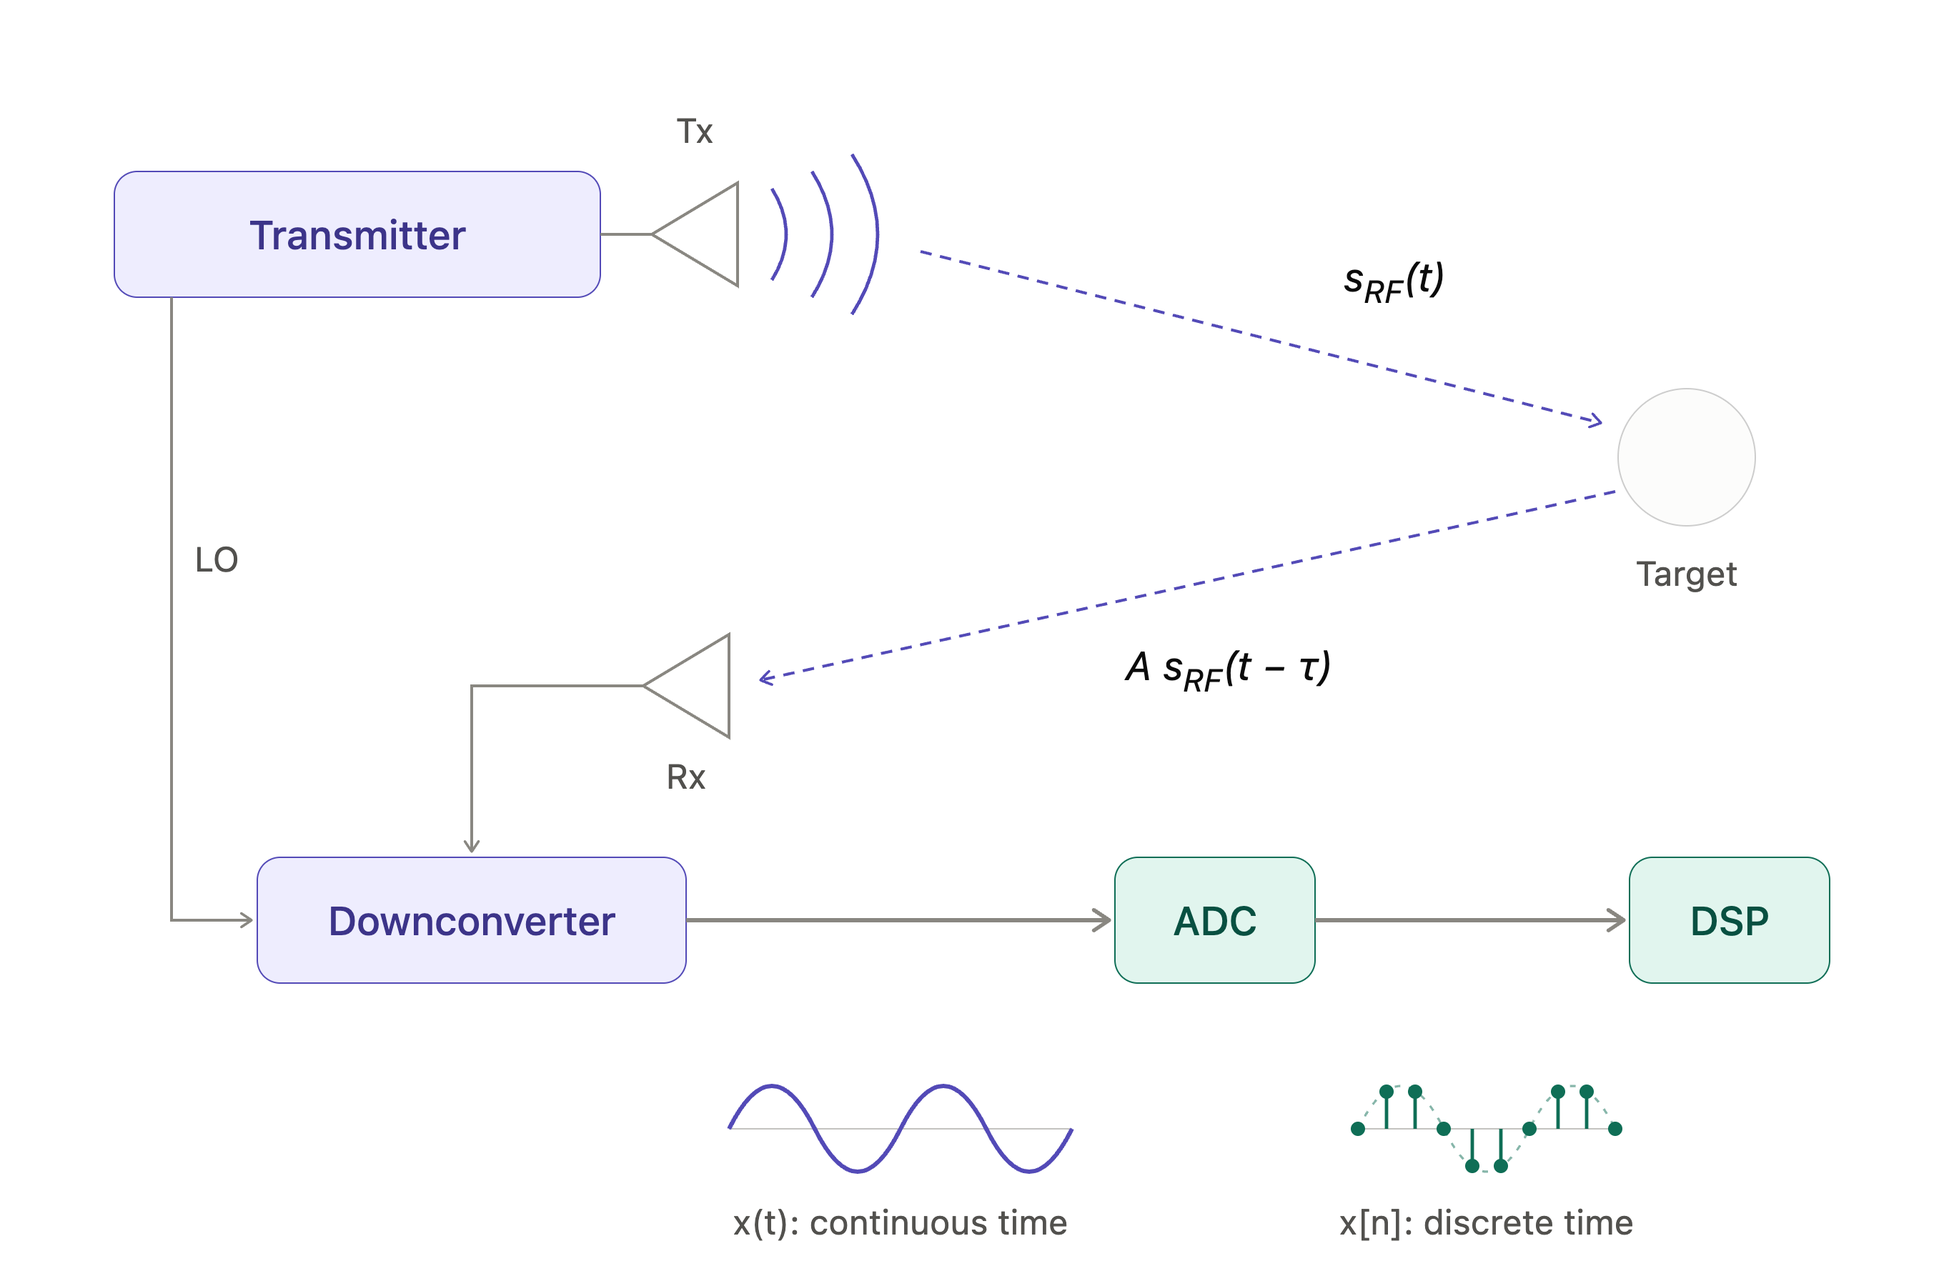
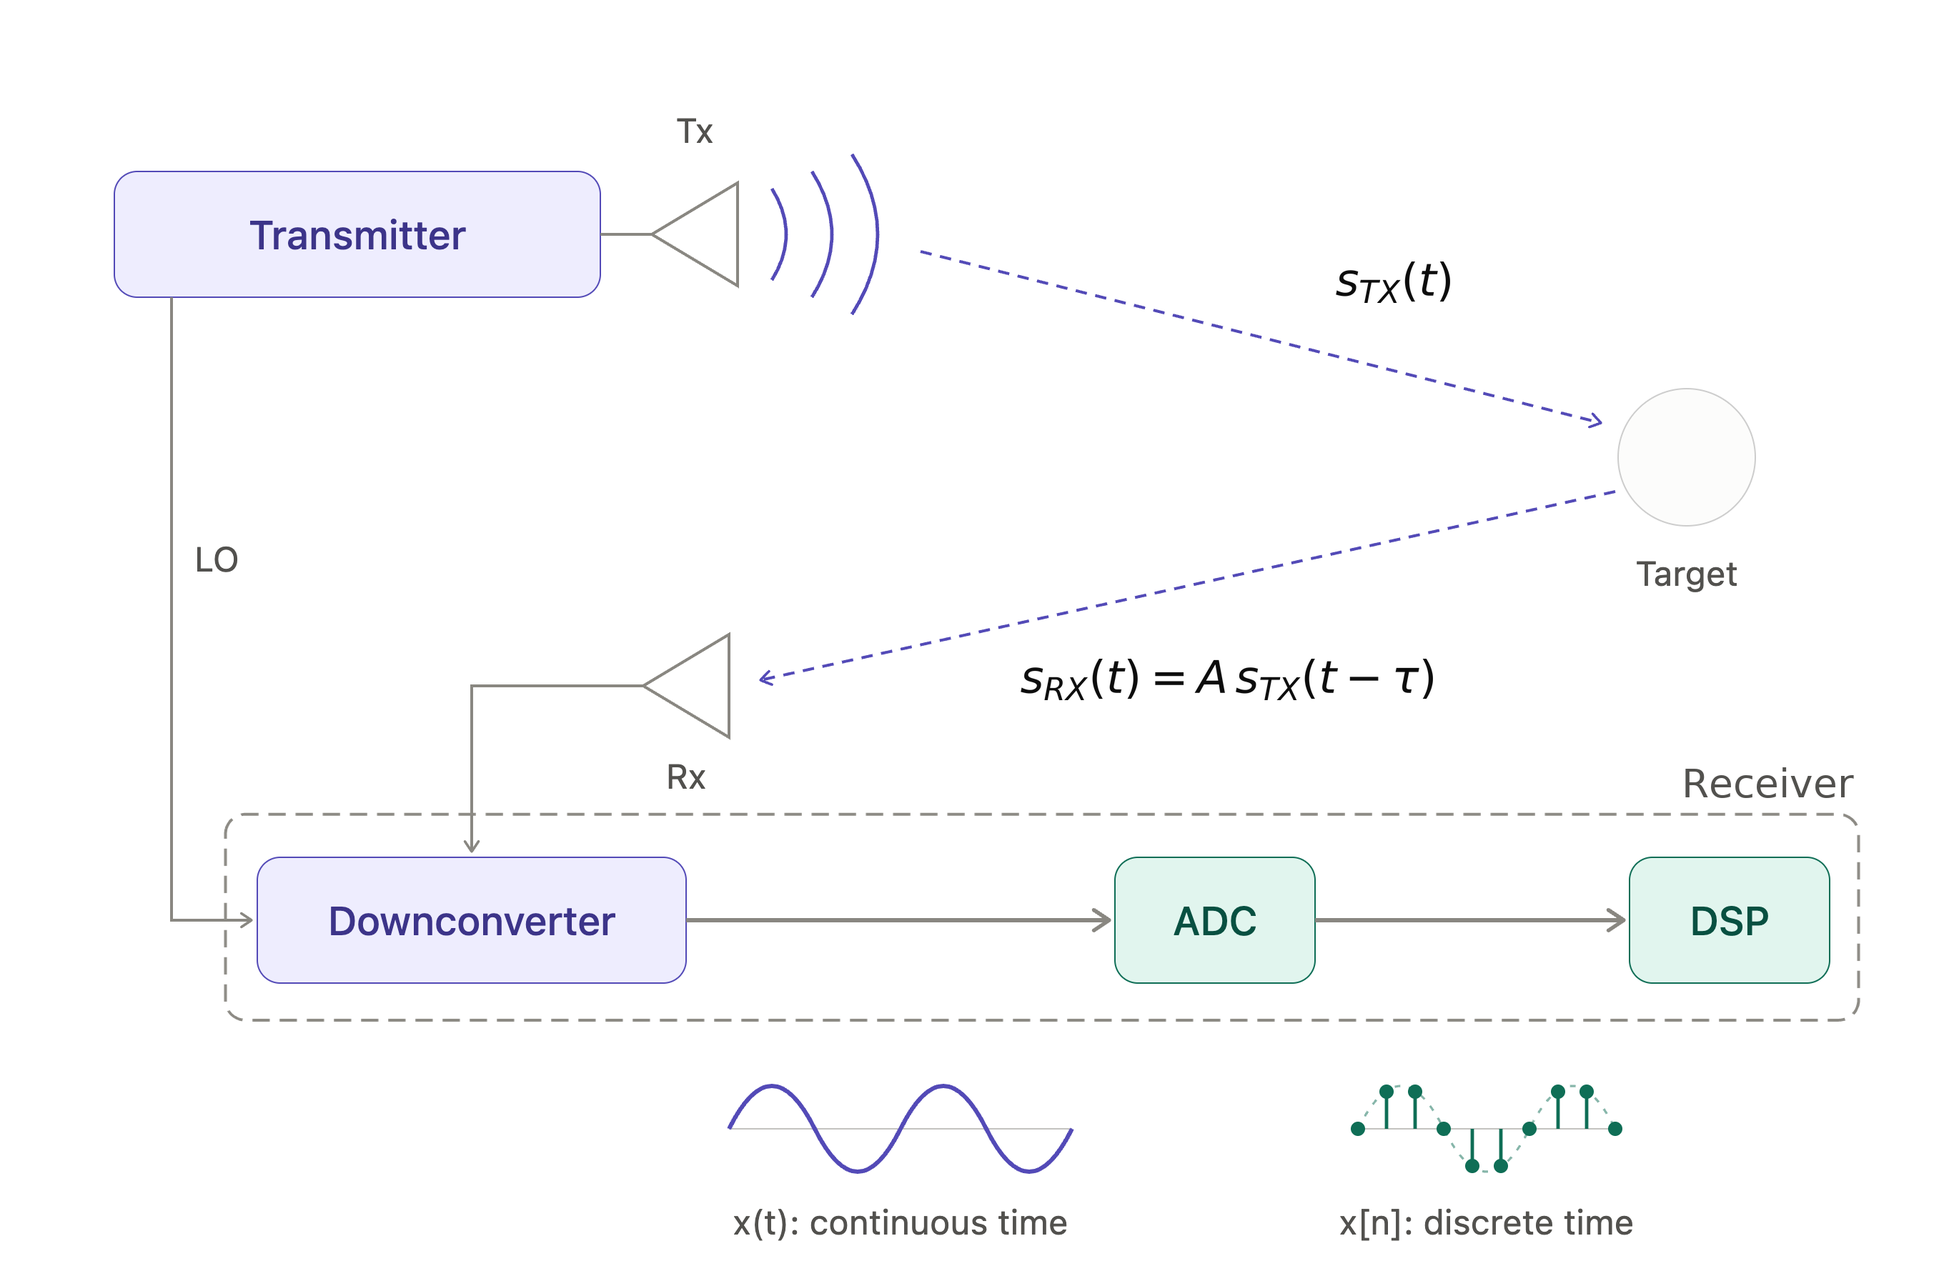
tutorial now defines what a chirp is, how dechirping is made, which terms can be ignored and which one need to stay, explains noise and SNR; modified second figure for completeness

diff --git a/README.md b/README.md
@@ -21,41 +21,94 @@ For transparency, I want to make it clear that AI tools were used as coding assi
 
 ## 2. Theory and assumptions
 
+![The radar chain: transmitter, target, downconverter, ADC and DSP](docs/02_radar_chain.png)
+
+The figure above shows a simplified radar diagram. The transmitter emits a signal $s_{TX}(t)$, which travels through the air and impinges on the target(s) in the scene. The receiver consists of a downconverter (for simplicity, a mixer), a filter (not shown), an analog-to-digital converter (ADC) and a digital signal processing (DSP) unit.
+
+Consider a single target at range $R$. Part of the impinging signal is backscattered towards the receiver, which sees an *echo*: a scaled and delayed copy of the transmit signal, $s_{RX}(t) = A\, s_{TX}(t-\tau)$, with $\tau = 2R/c$. Here $c$ is the speed of light and the factor 2 accounts for the round trip, radar to target and back.
+
 ### 2.1 The FMCW signal model
+
+In an FMCW radar, the transmit signal is a linear chirp whose mathematical model is 
+$$
+s_{TX}(t) = A_{TX} \cos \left[ \phi_{TX}(t) \right] = A_{TX} \cos \left[ 2 \pi \left( f_c t + \alpha \frac{t^2}{2} \right) \right],
+$$
+
+with $t \in [0, T_c]$ and where $A_{TX}$ is an amplitude value,  $f_c$ is the starting frequency, $\alpha = B / T_c$ is the chirp slope with $B$ the desired bandwidth and $T_c$ the chirp length. Since we assume a linear chirp, the bandwidth increases linearly as $f(t) = f_c + \alpha t$. 
 
 #### 2.1.1 The IF signal
 
-![The radar chain: transmitter, target, downconverter, ADC and DSP](docs/02_radar_chain.png)
+The transmitter emits $s_{TX}(t)$ and, assuming a single target, the receiver will collect $s_{RX}(t) = A s_{TX}(t-\tau)$, where $\tau = 2R / c$ (as shown above). If the target moves with velocity $v$ (we use the convention $v > 0$ for a receding target), its range changes during the chirp as $R(t) = R + vt$, and so does the delay, $\tau(t) = 2(R + vt)/c$. 
 
-In an FMCW radar, the transmit signal -call it $s_{RF}(t)$- is a linear chirp of duration $T_c$. It starts at $f_c$ and ends at $f_c + B$, where $B$ is the desired bandwidth. The bandwidth increases linearly as $f(t) = f_c + \alpha t$, where $\alpha = B / T_c$ (we will refer to $\alpha$ as the chirp slope) and $t \in \left[0, T_c \right]$. 
-
-The transmitter emits $s_{RF}(t)$. It travels through the air and impinges on the targets present in the scene. For simplicity, assume a single target at range $R$. The receiver "sees" an echo, namely a scaled and delayed version of the transmit signal, $A s_{RF}(t-\tau)$, where $\tau = 2R/c$ ($c$ is the speed of light and the factor $2$ considers the round-trip time, ie the time it takes from the signal to travel from the radar to the target and back). The receiver mixes the echo with a copy of the transmitted chirp (this procedure is called *dechirping*). The resulting baseband (IF) signal has the following mathematical model
+The downconverter mixes a copy of the transmit signal (cf. the line called "LO") with the signal arriving at the receiver (this technique is called dechirping)
 
 $$
-s(t) = A \, \exp \left\lbrace j 2\pi \left( f_c \tau + \alpha \tau t - \tfrac{1}{2} \alpha \tau^2 \right) \right\rbrace, \text{ for } 0 \le t \le T_c
+s(t) = s_{\text{RX}}(t) \cdot s_{\text{TX}}(t).
 $$
 
-where $A$ is the complex amplitude of the echo and the other parameters were previously defined. We will not be going into any specifics of $A$, but it is a function of the target, a few radar parameters and the radar-target distance. Also, keep in mind that $t$ is the time within the chirp (*fast time*). For simplicity, the last term in $s(t)$ is called "residual phase". For the purposes of this simulation, we will drop it.
-
-The Fourier Transform of $s(t)$ has a closed form and it is  
+With a slight abuse of notation, but to better understand the maths behind it, let $s_{TX}(t) = \cos \left[ \phi_{\text{TX}}(t) \right]$ and $s_{RX}(t) = \cos \left[ \phi_{\text{RX}}(t) \right]$, and compute
 
 $$
-S(f) = \int_0^{T_c} s(t) \, e^{-j 2\pi f t} \, dt 
-= A \, T_c \, e^{j 2\pi f_c \tau} \, e^{-j \pi (f - \alpha\tau) T_c} \, \text{sinc}\!\left( (f - \alpha\tau) T_c \right)
+\begin{aligned}
+s(t) &= \cos \left[ \phi_{\text{TX}}(t) \right] \, \cos \left[ \phi_{\text{RX}}(t) \right] \\
+     &= \frac{\cos \left[ \phi_{\text{TX}}(t) + \phi_{\text{RX}}(t) \right]}{2}
+      + \frac{\cos \left[ \phi_{\text{TX}}(t) - \phi_{\text{RX}}(t) \right]}{2}.
+\end{aligned}
 $$
 
-Taking the magnitude, $|S(f)| = A T_c \left| \text{sinc}\!\left( (f - \alpha\tau) T_c \right) \right|$, we see that the $\text{sinc}$ peaks at $ f_\text{IF} = \alpha\tau$, where IF stands for intermediate frequency (also called beat frequency). Recall that $\tau = 2R/c$, so
+The filter (low-pass) removes the first component, the sum frequency, and lets the second component through. Focusing on the arguments inside the latter $\cos()$, we obtain
+$$
+\begin{aligned}
+\phi(t) &= \phi_{\text{TX}}(t) - \phi_{\text{RX}}(t) \\
+       &= 2\pi \left( f_c t + \frac{\alpha}{2}t^2 \right)
+          - 2\pi \left( f_c (t - \tau) + \frac{\alpha}{2} (t - \tau)^2 \right) \\
+       &= 2\pi \left( f_c \tau + \alpha \tau t - \frac{\alpha}{2}\tau^2 \right) \\
+       &= 2 \pi \left( \frac{2 f_c R}{c} + \frac{2 f_c v}{c} t + \frac{2 \alpha R}{c} t + \frac{2 \alpha v}{c} t^2 - \frac{2\alpha (R + vt)^2}{c^2} \right),
+\end{aligned}
+$$
+where the last line follows from $\tau = 2(R + vt)/c$. Let us look at the terms inside the parentheses, in order:
+
+1. $2 f_c R/c$ is a constant phase that depends on the range
+2. $(2 f_c v/c) \, t$ is linear in $t$, so it is a frequency. We define the **Doppler frequency** $f_d = 2 f_c v / c = 2v/\lambda_c$, with $\lambda_c = c/f_c$ the wavelength.
+3. $(2 \alpha R/c) \, t$ is also linear in $t$: it is the **beat frequency** $f_\text{IF} = 2\alpha R / c$, which carries the range.
+4. $(2 \alpha v / c) \, t^2$ is the "range-Doppler coupling", a (very small) quadratic phase that appears only if the target moves.
+5. The last term is the "residual phase". The part that is constant in $t$ does not change where the peak is, and the part that depends on $t$ is negligible.
+
+Terms 4 and 5 can typically be ignored. The Doppler term (2) is also negligible within a single chirp, but its phase accumulates from one chirp to the next, which is what we exploit in Section 2.2. For now we consider a static target ($v=0$ m/s), so the IF signal is approximately
+
+$$ 
+s(t) \approx A \cos \left[ 2 \pi \left( f_c \tau + \alpha \tau t \right) \right], \quad \tau = \frac{2R}{c},
+$$
+
+with $t \in [0, T_c]$. Keep in mind that $t$ is the time within the chirp (*fast time*). 
+
+Assuming an I/Q receiver, namely two mixers, one of them using a copy of the transmit signal shifted by 90°, we have access to both the $\cos$ and the $\sin$ of the phase, i.e. the complex version of this signal
 
 $$
-f_\text{IF} = \frac{2\alpha R}{c} \Longleftrightarrow R = \frac{c \, f_\text{IF}}{2\alpha}.
+s(t) = A \exp \left\{ j 2 \pi \left( f_c \tau + \alpha \tau t \right) \right\},
 $$
 
-Since frequency and range are related, the *position* of the peak also tells us the range of the target. The phase terms do not change where the peak is (NOTE: Should we discard the phase, then? No, in a lot of applications the phase is just as important as the magnitude).
+which is the one we use from now on. The Fourier Transform of $s(t)$ has a closed form and it is  
+
+$$
+\begin{aligned}
+S(f) &= \int_0^{T_c} s(t) \, e^{-j 2\pi f t} \, dt \\
+     &= A \, T_c \, e^{j 2\pi f_c \tau} \, e^{-j \pi (f - \alpha\tau) T_c} \, \text{sinc}\left( (f - \alpha\tau) T_c \right).
+\end{aligned}
+$$
+
+Taking the magnitude, $|S(f)| = A T_c \left| \text{sinc} \left( (f - \alpha\tau) T_c \right) \right|$ (where $\text{sinc}(x) = \sin(\pi x)/(\pi x)$), we see that the $\text{sinc}$ peaks at $f = \alpha\tau$, which is exactly the beat frequency $f_\text{IF} = 2\alpha R/c$ found above. Inverting this relation,
+
+$$
+R = \frac{c \, f_\text{IF}}{2\alpha}.
+$$
+
+Since frequency and range are related, the *position* of the peak tells us the range of the target. The phase terms do not change where the peak is, but we should not discard them: the phase across chirps and across antennas is what lets us estimate velocity and angle (Sections 2.2 and 2.3).
 
 What happens when several targets are present in the scene? The resulting baseband signal is the linear combination of the contribution of each target
 
 $$
-s(t) = \sum_{k=0}^{K-1} A_k \, \exp\!\left( j 2\pi \left( f_c \tau_k + \alpha \tau_k t \right) \right),
+s(t) = \sum_{k=0}^{K-1} A_k \, \exp \left\{ j 2\pi \left( f_c \tau_k + \alpha \tau_k t \right) \right\},
 $$
 
 where $A_k$ and $\tau_k = 2R_k/c$ are the amplitude and time delay of the $k$-th target, and $K$ is the total number of targets in the scene. In frequency domain, we would be seeing $\text{sinc}()$ centered w.r.t. $f_{\text{IF},k} = \alpha \tau_k = 2 \alpha R_k / c$, for $k=0, \dots, K-1$.
@@ -63,6 +116,15 @@ where $A_k$ and $\tau_k = 2R_k/c$ are the amplitude and time delay of the $k$-th
 So far the signal is continuous in time. The ADC now samples it, $s[n] = s(n T_s)$ for $n = 0, \dots, N_\text{adc} - 1$, at the rate $f_s = 1/T_s$. Since the chirp lasts $T_c$, this gives up to $N_\text{adc} = \lceil T_c f_s \rceil$ samples per chirp (in practice slightly fewer, since the ADC starts after a short settling time).
 
 Why is $f_s$ enough? Because we assume an I/Q (complex) receive chain: the in-phase and quadrature components are both sampled, so each sample is a complex number. A real signal with frequencies up to $f_\text{max}$ needs $f_s \ge 2 f_\text{max}$, but the IF frequencies are all positive (since $R > 0$), so a complex signal occupies $[0, f_\text{max}]$ and needs only $f_s \ge f_\text{max}$.
+
+#### 2.1.2 Noise and SNR definition
+In reality, $s_{RX}(t)$ travels through the air and, as soon as it reaches the receiver, the random motion of electrons in the antenna, wires and electronics automatically corrupts the signal with noise. Noise is modeled as additive white Gaussian noise (AWGN) and it goes through the same chain as the signal. It can be shown that, in the end, the IF signal is 
+
+$$ 
+r(t) = s(t) + w(t),
+$$ 
+
+where $w(t)$ is the resulting (complex) noise. After sampling, we have $r[n] = s[n] + w[n]$, for $n=0, 1, \dots, N_{adc}-1$ and where each $w[n]$ is a zero-mean complex Gaussian random variable with variance $\sigma^2$, independent from sample to sample. We define the signal-to-noise ratio (SNR) as $\text{SNR} = |A|^2 / \sigma^2$.
 
 **Example.** Assume that we have a radar emitting a chirp with $f_c = 77$ GHz, $B = 120$ MHz, $T_c = 12$ µs, $f_s = 45$ MHz. The ADC acquires $N_\text{adc} = 512$ samples (11.4 µs, slightly less than $T_c$ because of the settling time) and there are two targets in the scene, one at 75 m and another one at 150 m. The slope is $\alpha = B/T_c = 10$ MHz/µs, so $f_\text{IF,max} = f_s$ would correspond to $R_{\max} = c f_s / (2\alpha) \approx 675$ m, well beyond the 300 m shown in the figures. The left figure below shows the time-domain data of a single chirp (I/Q channels), $s[n]$ for $n = 0, \dots, N_\text{adc} - 1$. The right figure shows the magnitude of its discrete frequency-domain version, $|S[k_r]|$ for $k_r = 0, \dots, N_\text{fft} - 1$ ($N_\text{fft} = 512$). In the time domain the two tones are hard to tell apart, while the FFT spectrum shows one peak per target.
 
@@ -82,8 +144,9 @@ How do these parameters "shape" a radar?
 - **Sampling rate.** The ADC samples at $f_s$, and since a higher rate lets us observe higher IF frequencies, we usually want to sample as fast as possible. In any case, we have to make sure that we pick a sampling frequency that agrees with (2)
 - **Chirp length.** Having fixed $B$ and $f_s$, we are left to select the chirp length $T_c$. The slope is $\alpha = B/T_c$, so the slope limit in (3), requires $T_c \ge B/\alpha_{\max}$. Within this limit, $T_c$ is a choice appropriate that once again depends on the application. Once $T_c$ is known, we can also determine the (maximum) number of samples per chirp, $N_\text{adc} = \lceil f_s T_c \rceil$, where $\lceil \cdot \rceil$ is the ceiling (round up) operator.
 - **Maximum range.** This is now a consequence of the choices above. Since $f_\text{IF} = 2\alpha R/c$, the maximum range corresponds to the maximum IF frequency. With an I/Q receiver we can set $f_\text{IF,max} = f_s$, so $R_{\max} = c f_s / (2 \alpha) = c f_s T_c / (2B)$. If this is not enough for the application, a longer chirp (a smaller slope) gives more range.
+- **Maximum velocity.** The radar also has a limit on the velocity it can measure unambiguously. It can be shown that, if we send multiple chirps back to back, the maximum velocity is $v_{\max} = \lambda_c / (4T_c)$, where $\lambda_c = c/f_c$ is the operating wavelength. A target moving faster than $v_{\max}$ is not lost, but it is seen at the *wrong* velocity (it wraps around). Shorter chirps increase the maximum velocity, while longer chirps decrease it.
 
-Note that the steps above are just a rough guide, not the only way to proceed.
+Keeping every other parameter fixed, $R_{\max}$ and $v_{\max}$ pull $T_c$ in opposite directions. A longer chirp increases $R_{\max}$ but decreases $v_{\max}$.
 
 ### 2.2 Range and velocity estimation
 
@@ -100,10 +163,10 @@ Typically, we refer to the time along the rows as _fast time_, because it's the 
 Assume a single target at range $R$, moving with velocity $v$. At each $q$-th chirp ($q = 0, \dots, Q - 1$), the target is seen at $R_q = R + v q T_c$ and the delay is $\tau_q = 2(R + v q T_c)/c$. Without going into the details, the mathematical expression of the $q$-th chirp is defined as 
 
 $$
-s[q, n] = A \, \exp\!\left( j 2\pi \left( f_c \tau + f_\text{IF} \, n T_s + f_d \, q T_c \right) \right), 
+s[q, n] = A \, \exp \left\{ j 2\pi \left( f_c \tau + f_\text{IF} \, n T_s + f_d \, q T_c \right) \right\}, 
 $$
 
-where $f_\text{IF} = 2 \alpha R/c$, $f_d = 2 v /\lambda_c$ ($\lambda_c = c/f_c$) and $q = 0, \dots, Q - 1$ and $n = 0, \dots, N_\text{adc} - 1$. Note that $f_\text{IF}$ was previously defined, while $f_d$ is new. This quantity is the **Doppler frequency**, namely the rate at which the phase of the echo rotates from chirp to chirp because the target moves. It is proportional to the velocity $v$. When $v > 0$, we imply that the target is moving away from the radar (receding), and $v<0$ is approaching.
+where $f_\text{IF}$ and $f_d$ are the beat and Doppler frequencies defined in Section 2.1.1, $q = 0, \dots, Q - 1$ and $n = 0, \dots, N_\text{adc} - 1$. Recall that $v>0$ means a receding target and $v<0$ an approaching one.
 
 #### 2.2.2 The range-Doppler map
 
@@ -152,7 +215,7 @@ In other words, the antennas, which are our spatial samples, have to be placed a
 
 How can we build such an array? A straightforward option is a uniform linear array of transceivers (transmitter/receivers together) spaced at $\lambda_c/2$. A multiple-input, multiple-output (MIMO) configuration is a smarter way to achieve what we want. A MIMO architecture comprises multiple independent transmitters (TX) and receivers (RX). Literally, each TX has its own power amplifier and antenna, sends a specific number of chirps, and each RX has its own receive chain.
 
-For the purposes of this discussion, assume that a commercially available component has the following MIMO architecture
+For the purposes of this discussion, assume that a commercially available chip has the following MIMO architecture
 - 4 TXs spaced $3\lambda_c/2$ apart from each other (on a line), and 
 - 3 RXs spaced $\lambda_c/2$ apart from each other (on a line). 
 
@@ -170,7 +233,7 @@ The figure below shows the physical TX and RX antennas and the resulting virtual
 
 What does this mean? With only 7 _physical_ antennas, we have realized a 12-element *virtual* array with $l_c/2$-spaced elements.
 
-**Time-division multiplexing (TDM)**. For the purposes of this discussion, we will assume that TX 0 sends $Q$ chirps while all 3 receivers "listen" for the echoes, then TX 1 sends $Q$ chirps, and so on. This technique is called TDM and it is an extremely simple technique that allows the receivers to understand that a particular echo was received from a specific transmitter. This is an important aspect that is required to perform spatial processing. Other multiplexing techniques are available, but we will not talk about them here.
+**Time-division multiplexing (TDM)**. For the purposes of this discussion, we will assume that TX 0 sends $Q$ chirps while all 3 receivers "listen" for the echoes, then TX 1 sends $Q$ chirps, and so on. This technique is called TDM and it is an extremely simple technique that allows the receivers to understand that a particular echo was received from a specific transmitter. Other multiplexing techniques are available, but we will not talk about them here.
 
 #### 2.3.4 From data cube to range-angle map
 
@@ -189,7 +252,7 @@ How do we get the angle information? Defining $N_\text{ang}$ the FFT size perfor
 
 In this tutorial, we are considering static targets, so the cube can be collapsed into a 2D map. Because of the linearity property, this operation can be achieved in multiple ways. For example, first we obtain the averaged chirp, then we perform a 2D FFT along angle and range. Plotting the resulting magnitude, gives us a range-angle map.
 
-The figure below shows what the code does too. The "true" scene is provided on the left. Target 1 (in red) is at $R = 75$ m, not moving, at an angle $\theta = -30°$ (to the left of the radar). Its position is $(x, y) = (75 \sin(-30°), \, 75 \cos(-30°)) \approx (-37.5, \, 65)$ m, and its SNR is 20 dB. Target 2 (in blue) is at $R = 150$ m, not moving, at an angle $\theta = +45°$ (to the right of the radar). Its position is $(x, y) = (150 \sin(45°), \, 150 \cos(45°)) \approx (106, \, 106)$ m, and its SNR is 10 dB. If you do not know what SNR means, do not worry. For the time being, simply assume is the target's amplitude. 
+The figure below shows what the code does too. The "true" scene is provided on the left. Target 1 (in red) is at $R = 75$ m, not moving, at an angle $\theta = -30°$ (to the left of the radar). Its position is $(x, y) = (75 \sin(-30°), \, 75 \cos(-30°)) \approx (-37.5, \, 65)$ m, and its SNR is 20 dB. Target 2 (in blue) is at $R = 150$ m, not moving, at an angle $\theta = +45°$ (to the right of the radar). Its position is $(x, y) = (150 \sin(45°), \, 150 \cos(45°)) \approx (106, \, 106)$ m, and its SNR is 10 dB.
 The figure to the right shows the reconstructed scene in the same $(x, y)$ coordinates ($x = R\sin\theta$, $y = R\cos\theta$). As can be seen, the reconstruction works as expected. We see two bright spots in the range-angle map at $R \approx 75$ m, $\theta \approx -30°$ and $R \approx 150$ m, $\theta \approx +45°$. Target 2 is dimmer than Target 1 simply because its return (amplitude) is lower than Target 1.
 
 ![The scene, and the range-angle map reconstructed from the data](docs/09_range_angle.png)
